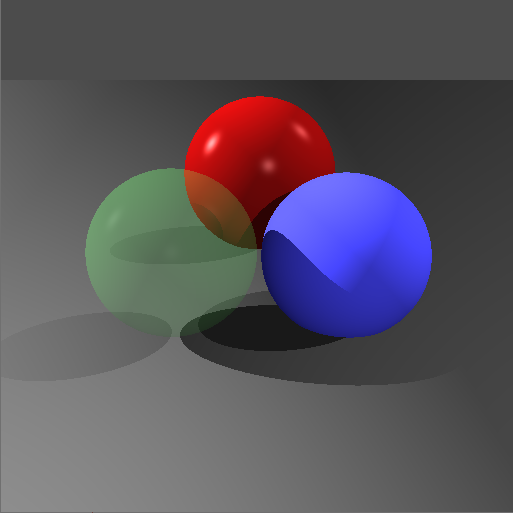
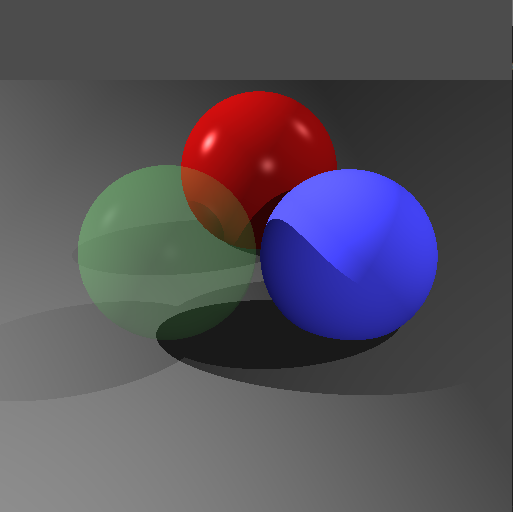
make sure the directional light is normalized

diff --git a/src/raytracer.cpp b/src/raytracer.cpp
@@ -21,8 +21,6 @@ const char *PATH = "scenes/";
 json scene;
 
 double fov = 60;
-const float MAX_RAY_LEN = 999.0f;
-const float MIN_RAY_LEN = 0.0001f;
 
 colour3 background_colour(0, 0, 0);
 std::vector<Object*> objects;
@@ -172,7 +170,7 @@ void jsonImport() {
 		else if (light["type"] == "directional") {
 			Directional* directional = new Directional();
 			directional->colour = vector_to_vec3(light["color"]);
-			directional->direction = vector_to_vec3(light["direction"]);	
+			directional->direction = normalize(vector_to_vec3(light["direction"]));
 			lights.push_back(directional);
 		}
 		else if (light["type"] == "spot") {

diff --git a/src/model.cpp b/src/model.cpp
@@ -118,7 +118,7 @@ bool Triangle::isHit(glm::vec3 rayOrigin, glm::vec3 rayDir, float minRayLen, flo
 
 bool isShadow(std::vector<Object*> &objects, glm::vec3 rayOrigin, glm::vec3 rayDir, float maxRayLen = 999) {
 	for (Object* object : objects) {
-		if (object->isHit(rayOrigin, rayDir, 0.0001, maxRayLen)) {
+		if (object->isHit(rayOrigin, rayDir, MIN_RAY_LEN, maxRayLen)) {
 			return true;
 		}
 	}

diff --git a/src/model.h b/src/model.h
@@ -16,6 +16,9 @@
 
 using namespace std;
 
+const float MAX_RAY_LEN = 999.0f;
+const float MIN_RAY_LEN = 0.0001f;
+
 class Material {
 public:
 	glm::vec3 Ka;
